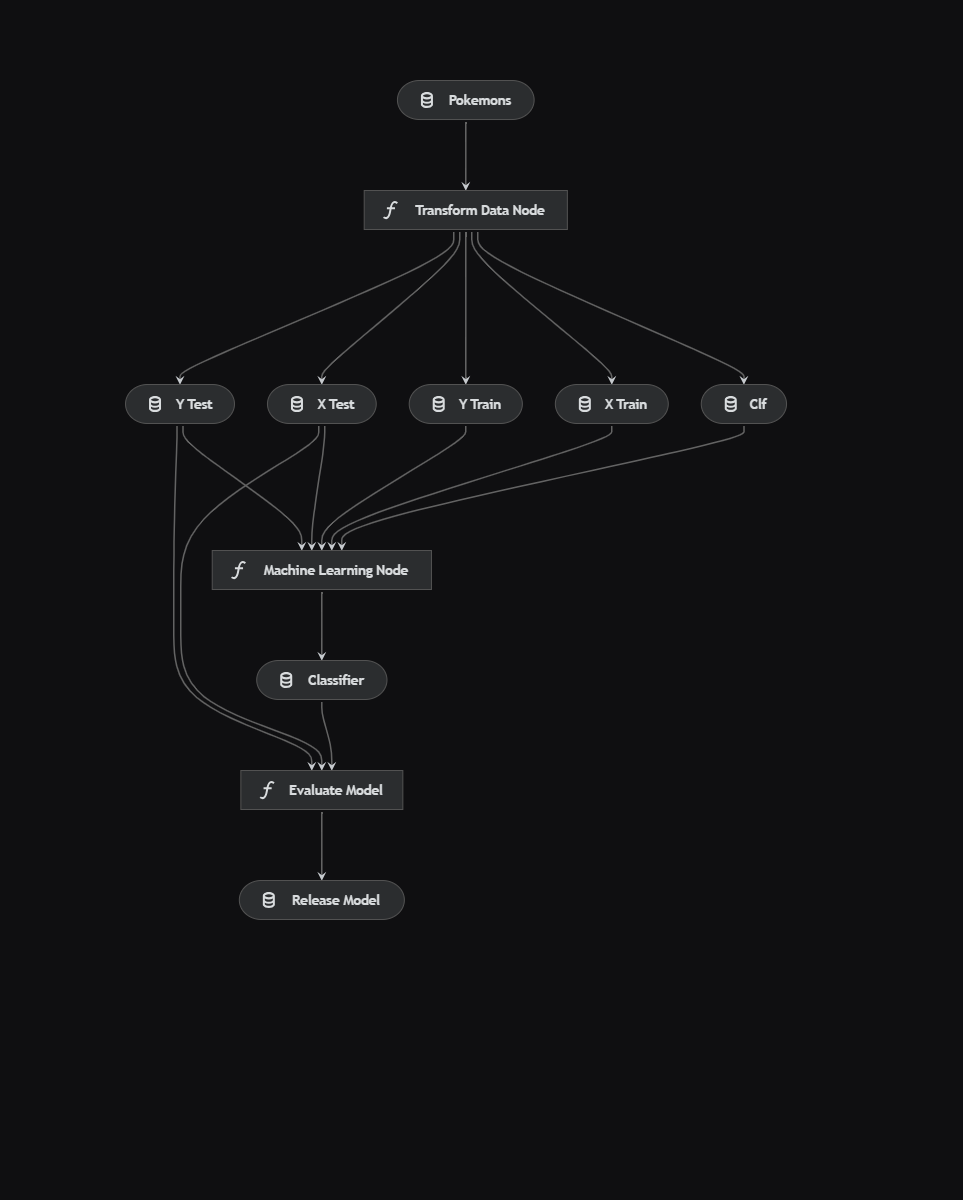
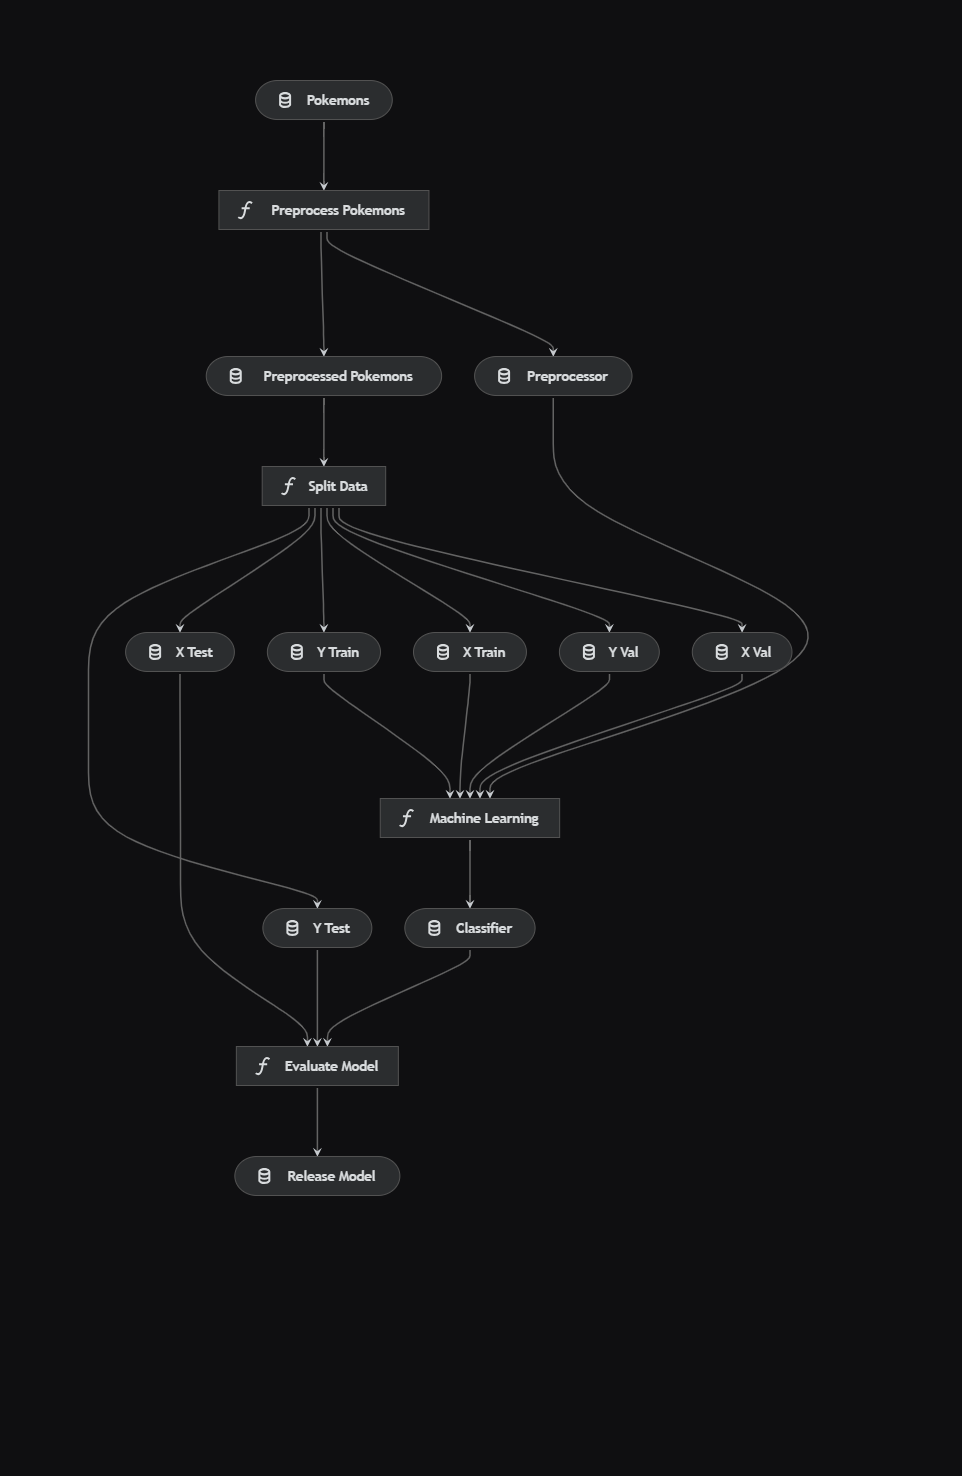
General Kedro project fix
Multiple changes in Kedro project, improved modularization, implemented strong typing, updated gitignore, added error handling and logging

diff --git a/src/pja_asi_12c_gr2/pipelines/data_science/nodes.py b/src/pja_asi_12c_gr2/pipelines/data_science/nodes.py
@@ -1,8 +1,9 @@
+from typing import Dict, Any
+import logging
 from kedro.io import DataCatalog
-from sklearn.model_selection import train_test_split
-from sklearn.compose import ColumnTransformer
-from sklearn.preprocessing import StandardScaler, OneHotEncoder
+import pandas as pd
 from sklearn.pipeline import Pipeline
+from sklearn.compose import ColumnTransformer
 from sklearn.tree import DecisionTreeClassifier
 from sklearn.metrics import (
     accuracy_score,
@@ -13,50 +14,38 @@ from sklearn.metrics import (
 )
 
 
-def transform_data(pokemons):
-
-    pokemons["Type 2"] = pokemons["Type 2"].fillna("None")  # Filling missing values
-
-    # Features and Labels
-    # Dropping "Name" and "Legendary" columns
-    X = pokemons.drop(labels=["Name", "Legendary"], axis=1)
-
-    # Target variable
-    y = pokemons["Legendary"]
-
-    # Encoding categorical features "Type 1" and "Type 2"
-    categorical_features = ["Type 1", "Type 2"]
-    numeric_features = X.select_dtypes(include=["int64", "float64"]).columns
-
-    # Creating a column transformer to transform categorical columns
-    preprocessor = ColumnTransformer(
-        transformers=[
-            ("num", StandardScaler(), numeric_features),
-            ("cat", OneHotEncoder(), categorical_features),
-        ]
-    )
-
-    # Creating a pipeline to transform data before applying the classifier
-    clf = Pipeline(
-        steps=[
-            ("preprocessor", preprocessor),
-            ("classifier", DecisionTreeClassifier(random_state=0)),
-        ]
-    )
-
-    # Splitting the dataset into training and testing sets
-    x_train, x_test, y_train, y_test = train_test_split(
-        X, y, test_size=0.2, stratify=y, random_state=0
-    )
-    return x_train, x_test, y_train, y_test, clf
+def create_error_logger():
+    logger = logging.getLogger(__name__)
+    logger.setLevel(logging.ERROR)
+    return logger
 
 
-def machine_learning(x_train, x_test, y_train, y_test, clf):
-    clf.fit(x_train, y_train)
-    return clf
+def machine_learning(
+    x_train: pd.DataFrame,
+    x_val: pd.DataFrame,
+    y_train: pd.Series,
+    y_val: pd.Series,
+    preprocessor: ColumnTransformer,
+) -> Pipeline:
+    logger = create_error_logger()
+    try:
+        # Creating a pipeline to transform data before applying the classifier
+        clf = Pipeline(
+            steps=[
+                ("preprocessor", preprocessor),
+                ("classifier", DecisionTreeClassifier(random_state=0)),
+            ]
+        )
+        clf.fit(x_train, y_train)
+        return clf
+    except ValueError as e:
+        logger.error(f"Model training error: {e}")
+        raise
 
 
-def evaluate_model(x_test, y_test, classifier):
+def evaluate_model(
+    x_test: pd.DataFrame, y_test: pd.Series, classifier: Pipeline
+) -> Dict[str, Any]:
     y_pred = classifier.predict(x_test)
 
     accuracy = accuracy_score(y_test, y_pred)
@@ -77,4 +66,9 @@ def evaluate_model(x_test, y_test, classifier):
 
 
 def release_model(catalog: DataCatalog, evaluation_results: dict, classifier):
-    catalog.save("evaluation_results", evaluation_results)
+    logger = create_error_logger()
+    try:
+        catalog.save("evaluation_results", evaluation_results)
+    except IOError as e:
+        logger.error(f"IOError: {e}")
+        raise

diff --git a/src/pja_asi_12c_gr2/pipelines/data_processing/nodes.py b/src/pja_asi_12c_gr2/pipelines/data_processing/nodes.py
@@ -1,0 +1,70 @@
+import logging
+from kedro.io import DataCatalog
+import pandas as pd
+from sklearn.model_selection import train_test_split
+from sklearn.compose import ColumnTransformer
+from sklearn.preprocessing import StandardScaler, OneHotEncoder
+
+
+def create_error_logger():
+    logger = logging.getLogger(__name__)
+    logger.setLevel(logging.ERROR)
+    return logger
+
+
+def preprocess_pokemons(
+    pokemons: pd.DataFrame,
+) -> tuple[
+    pd.DataFrame,
+    pd.DataFrame,
+    pd.DataFrame,
+    pd.Series,
+    pd.Series,
+    pd.Series,
+    ColumnTransformer,
+]:
+    logger = create_error_logger()
+    try:
+        pokemons["Type 2"] = pokemons["Type 2"].fillna("None")  # Filling missing values
+
+        # Features and Labels
+        # Dropping "Name" column
+        preprocessed_pokemons = pokemons.drop(labels=["Name"], axis=1)
+
+        # Encoding categorical features "Type 1" and "Type 2"
+        categorical_features = ["Type 1", "Type 2"]
+        numeric_features = preprocessed_pokemons.select_dtypes(
+            include=["int64", "float64"]
+        ).columns
+
+        # Creating a column transformer to transform categorical columns
+        preprocessor = ColumnTransformer(
+            transformers=[
+                ("num", StandardScaler(), numeric_features),
+                ("cat", OneHotEncoder(), categorical_features),
+            ]
+        )
+        return preprocessed_pokemons, preprocessor
+    except FileNotFoundError:
+        logger.error("Pokemon dataset not found at the specified path.")
+        raise  # Re-raise the exception for the pipeline to handle
+    except (KeyError, ValueError) as e:
+        logger.error(f"Data processing error: {e}")
+        raise
+
+
+def split_data(preprocessed_pokemons):
+    # Train dataset
+    x = preprocessed_pokemons
+    # Target variable
+    y = preprocessed_pokemons["Legendary"]
+    # Splitting the dataset into training and testing sets
+    x_train, x_test, y_train, y_test = train_test_split(
+        x, y, test_size=0.2, stratify=y, random_state=0
+    )
+
+    # Splitting the testing dataset into testing and validation sets
+    x_val, x_test, y_val, y_test = train_test_split(
+        x_test, y_test, test_size=0.5, stratify=y_test, random_state=0
+    )
+    return x_train, x_val, x_test, y_train, y_val, y_test

diff --git a/src/pja_asi_12c_gr2/pipelines/data_science/pipeline.py b/src/pja_asi_12c_gr2/pipelines/data_science/pipeline.py
@@ -1,7 +1,6 @@
 from kedro.pipeline import Pipeline, node, pipeline
 
 from .nodes import (
-    transform_data,
     machine_learning,
     evaluate_model,
 )
@@ -11,16 +10,10 @@ def create_pipeline(**kwargs) -> Pipeline:
     return pipeline(
         [
             node(
-                func=transform_data,
-                inputs="pokemons",
-                outputs=["x_train", "x_test", "y_train", "y_test", "clf"],
-                name="transform_data_node",
-            ),
-            node(
                 func=machine_learning,
-                inputs=["x_train", "x_test", "y_train", "y_test", "clf"],
+                inputs=["x_train", "x_val", "y_train", "y_val", "preprocessor"],
                 outputs="classifier",
-                name="machine_learning_node",
+                name="machine_learning",
             ),
             node(
                 func=evaluate_model,

diff --git a/src/pja_asi_12c_gr2/pipelines/data_processing/pipeline.py b/src/pja_asi_12c_gr2/pipelines/data_processing/pipeline.py
@@ -1,0 +1,32 @@
+from kedro.pipeline import Pipeline, node, pipeline
+
+from .nodes import (
+    preprocess_pokemons,
+    split_data,
+)
+
+
+def create_pipeline(**kwargs) -> Pipeline:
+    return pipeline(
+        [
+            node(
+                func=preprocess_pokemons,
+                inputs="pokemons",
+                outputs=["preprocessed_pokemons", "preprocessor"],
+                name="preprocess_pokemons",
+            ),
+            node(
+                func=split_data,
+                inputs=["preprocessed_pokemons"],
+                outputs=[
+                    "x_train",
+                    "x_val",
+                    "x_test",
+                    "y_train",
+                    "y_val",
+                    "y_test",
+                ],
+                name="split_data",
+            ),
+        ]
+    )
